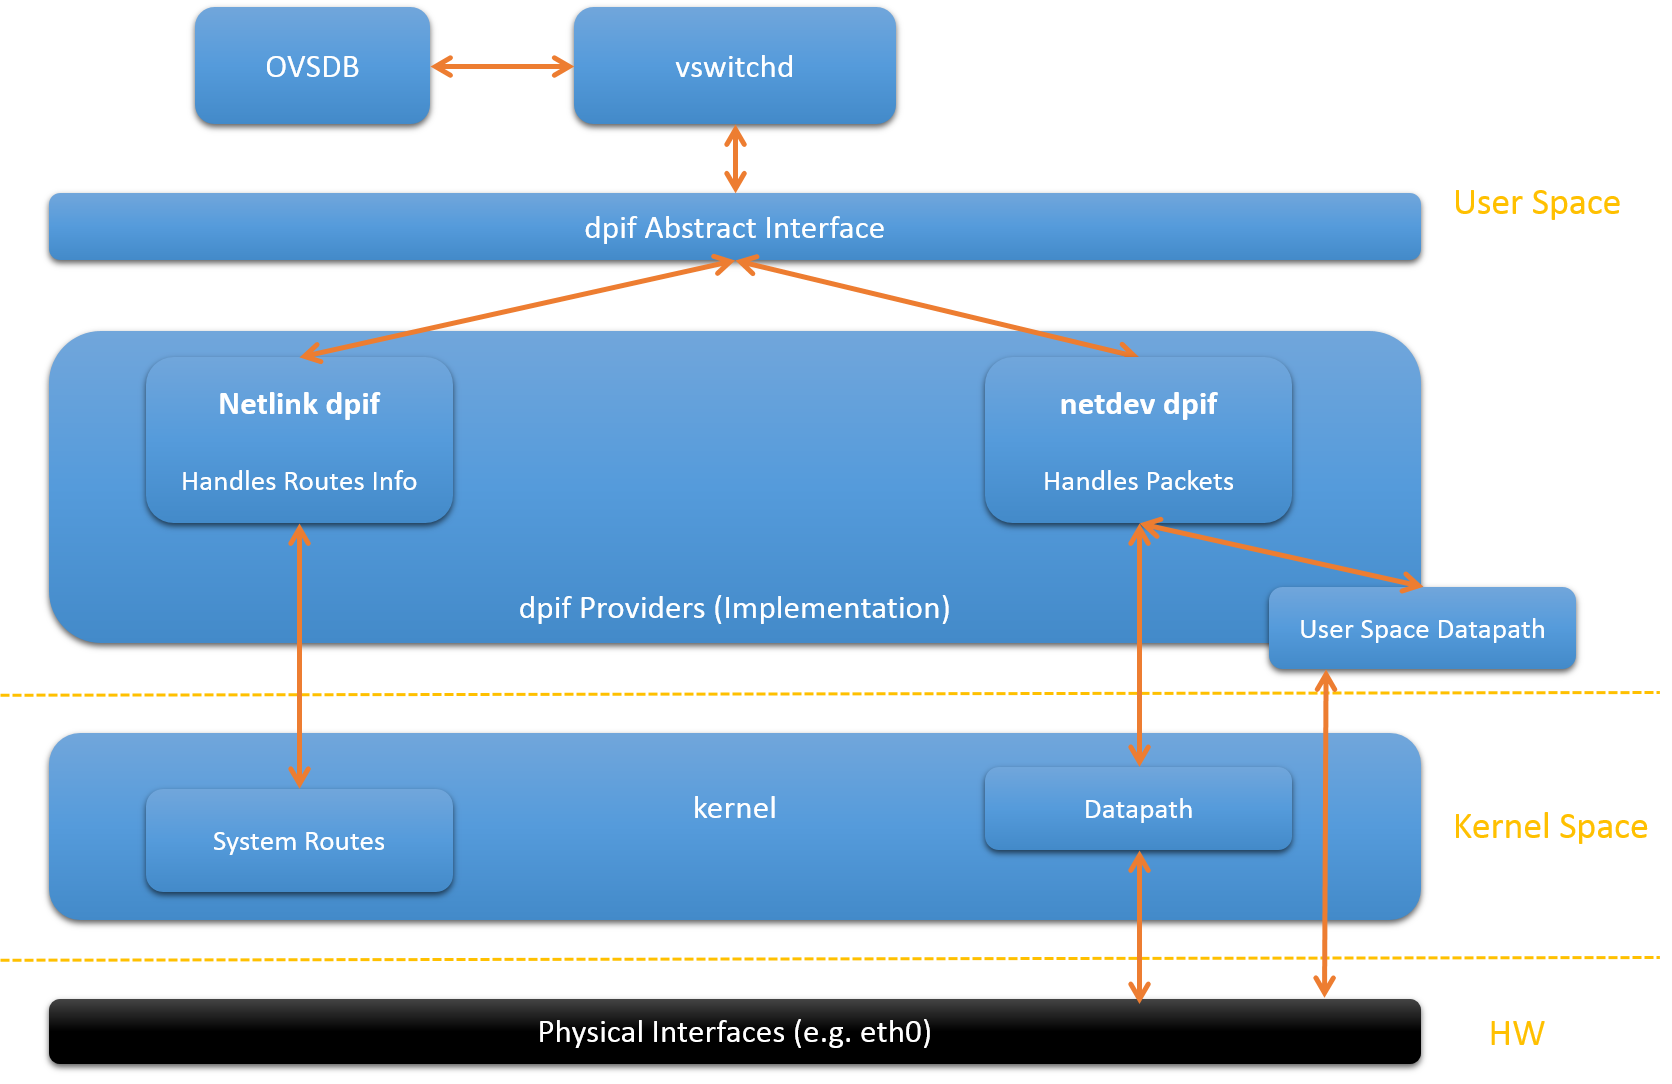
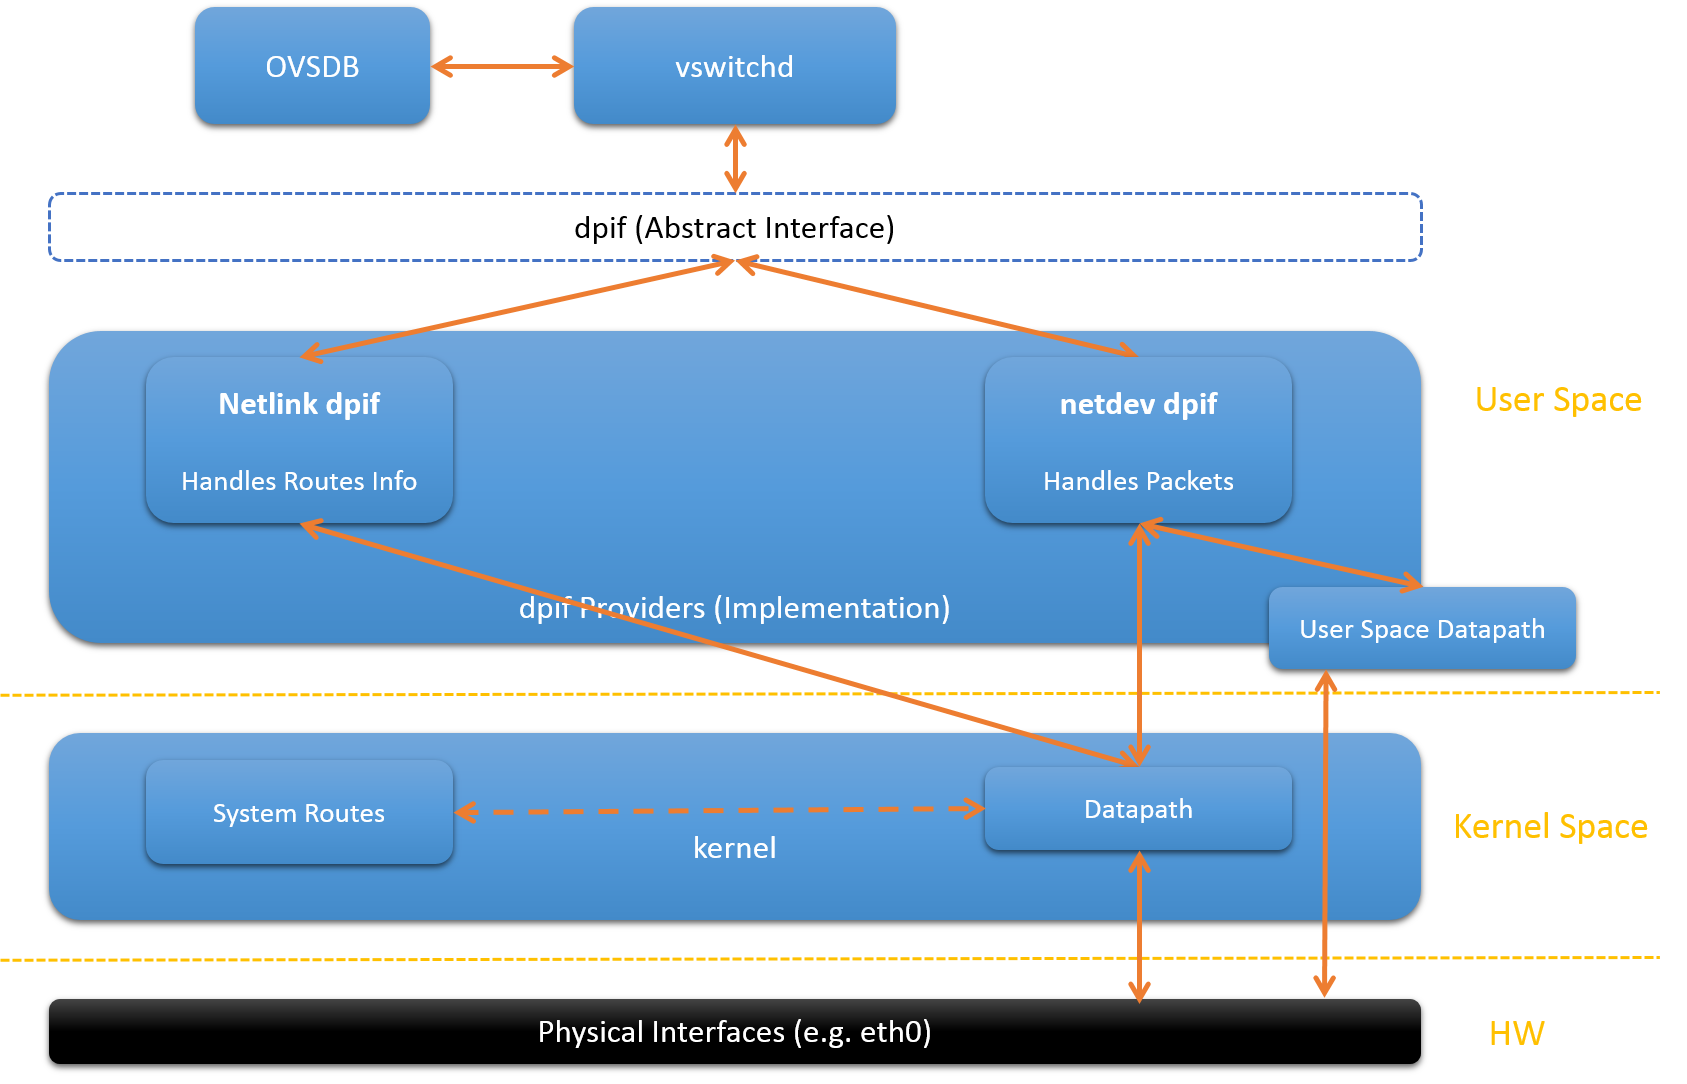
update ovs-deep-dive

diff --git a/_posts/2017-01-07-ovs-deep-dive-4.md b/_posts/2017-01-07-ovs-deep-dive-4.md
@@ -21,7 +21,7 @@ however, the default connection fashion has been changed to OVS patch port.
 <p align="center"><img src="/assets/img/ovs-deep-dive/ovs-compute-node.png" width="80%" height="80%"></p>
 <p align="center">Fig.1.1. Network On OpenStack Compute Node[1])</p>
 
-According to some materials[2,3], the reason of switchding from
+According to some materials[2,3][6][7], the reason of switching from
 linux veth pair to OVS patch port is for performance consideration. Apart from
 this, at least for OpenStack, the patch port brings another great benefit:
 traffic of instances (VMs) will not get down during OVS neutron agent restart -
@@ -46,7 +46,7 @@ We need to get familir with following data structures before moving on:
 
 ### 2.1. `dpif` and `dpif_class`
 
-`dpif` is short for **datapth interface**, and is defined in
+`dpif` is an abbreviaion of **datapth interface**, and is defined in
 `lib/dpif-provider.h`. Each implementation of a datapath interface needs to
 define the callbacks in `dpif_class`. The two structures are shown below:
 
@@ -88,7 +88,7 @@ struct dpif_class {
 };
 ```
 <p align="center"><img src="/assets/img/ovs-deep-dive/dpif_providers.png" width="75%" height="75%"></p>
-<p align="center">Fig.2.1 dpif providers (TODO: use dashed box for interfaces)</p>
+<p align="center">Fig.2.1 dpif providers</p>
 
 **All types of `dpif` classes:**
 
@@ -271,7 +271,7 @@ from patch port to the peer or other ports.
 
 ### 3.3 Patch Port Performance
 
-As has been pointed out in [2][3], there is great performance boost in OpenStack
+As has been pointed out in [2][3][6][7], there is great performance boost in OpenStack
 compute node when replacing linux veth pair with OVS patch port for connections
 between `br-int` and `br-phy`. Then, the question is: where the performance
 increase comes from?
@@ -292,3 +292,5 @@ bridge".
 3. [datasheet: Kilo vs Liberty - OVS Agent restart outage](https://docs.google.com/spreadsheets/d/1ZGra_MszBlL0fNsFqd4nOvh1PsgWu58-GxEeh1m1BPw/edit#gid=1328396036)
 4. [patch: Graceful OVS Agent Restart](https://bugs.launchpad.net/openstack-manuals/+bug/1487250)
 5. [discuss: Restarting neutron openvswitch agent causes network hiccup by throwing away all flows](https://bugs.launchpad.net/neutron/+bug/1383674)
+6. [Switching Performance - Chaining OVS bridges](http://www.opencloudblog.com/?p=386)
+7. [Switching Performance – Connecting Linux Network Namespaces](http://www.opencloudblog.com/?p=96)
